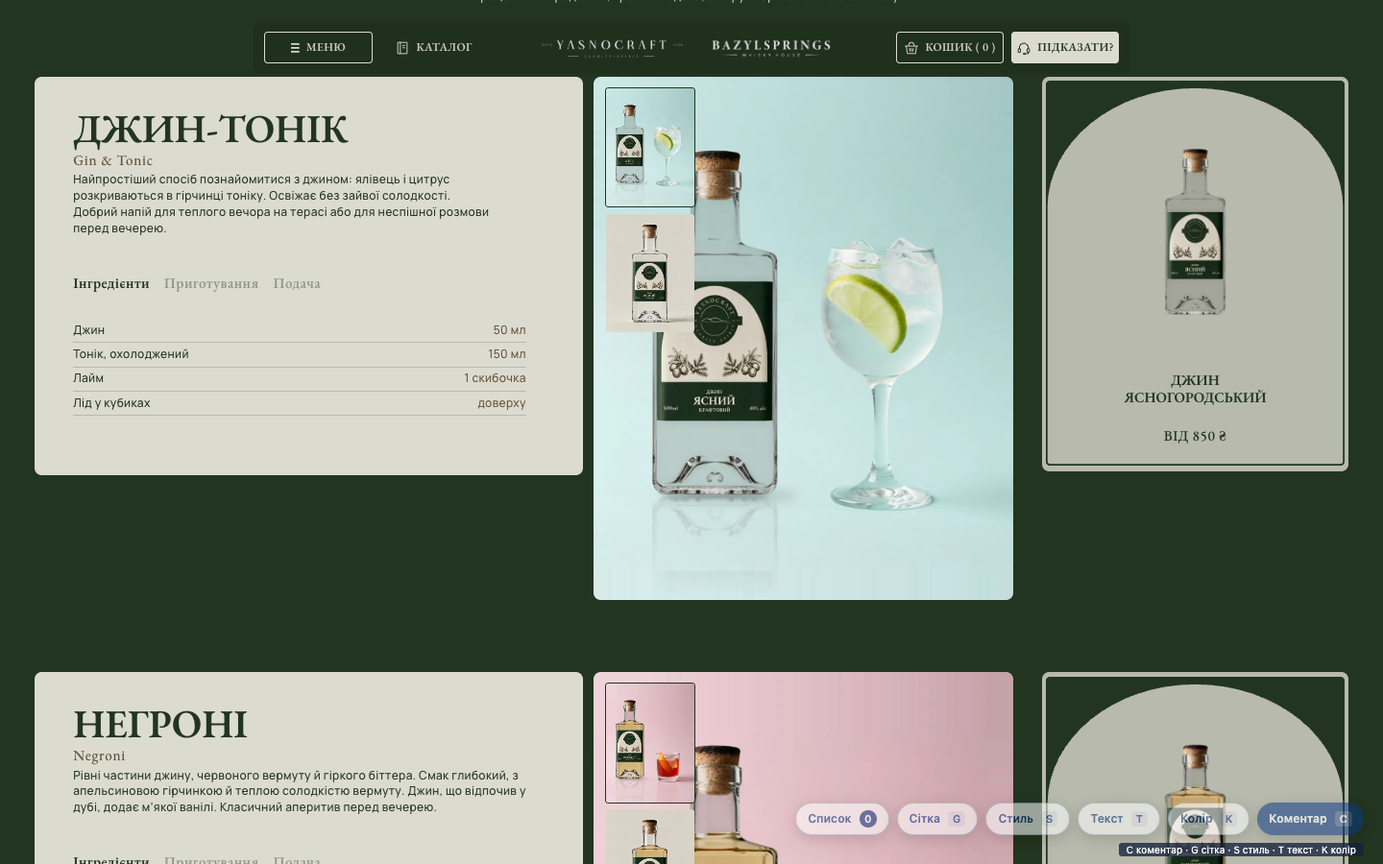
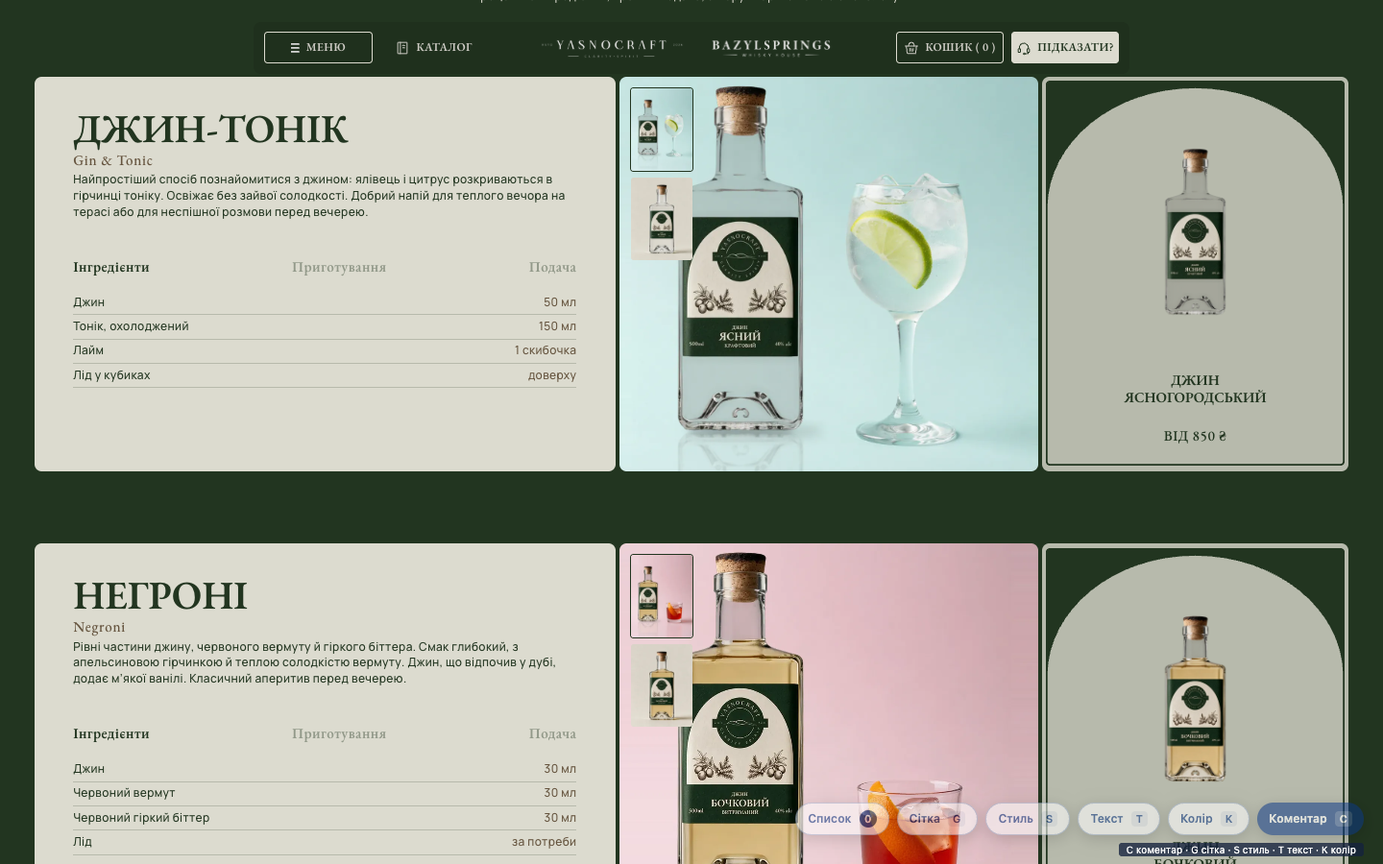
Коктейлі: рівні проміжки 5u між панеллю, слайдером і карткою (c121e3bf, 149b8d33); однакові відступи вкладок (0bea51f5); менші мініатюри (ccbb0483); слайдер на висоті картки (e9d6192c); таби на всю ширину (580810af)

diff --git a/design-system.html b/design-system.html
@@ -1124,7 +1124,7 @@
     <section class="ds-section" id="cocktails">
       <h2 class="t-h2 ds-section__title">Коктейлі</h2>
       <p class="ds-note t-body">Сторінка cocktails.html: вступ (h1 «Коктейлі» і рядок, 6 середніх колонок сітки, по центру екрана) і довгий список однакових блоків <code>components/cocktail</code>. Блоки будуються на етапі збірки циклом <code>&lt;!--@each cocktails components/cocktail--&gt;</code> (vite.config.js) з ОДНОГО файлу даних <code>src/data/cocktails.js</code> (підготовка — <code>src/data/cocktails-view.js</code>); новий коктейль = новий об'єкт у масиві, без змін розмітки й CSS (README, «Як додати коктейль»). Стилі — <code>src/styles/cocktails.css</code>, <code>components/lightbox.css</code>; логіка — <code>src/js/cocktails.js</code>, <code>tabs.js</code>, <code>lightbox.js</code>, <code>photo-stage.js</code>; токени — блок «Коктейлі» в кінці tokens.css.</p>
-      <p class="ds-note t-body"><strong>Сітка блоку:</strong> на зеленому тлі сторінки блок = 12 колонок сітки каталогу (<code>--size-cocktails-w</code> 1825u, зазор 40u; <code>--grid-cocktail-block</code>): фото-галерея — колонки 1–4 (<code>--col-cocktail-media</code>), світла ПАНЕЛЬ лише під текстовою частиною — колонки 5–9 (<code>--col-cocktail-body</code>; існуюча <code>.contacts-panel</code>: beige, рамка кольору панелі, <code>--radius-panel</code>, поле <code>--space-contacts-pad</code> з рамкою 55u), картка каталогу — колонки 10–12 (<code>--col-cocktail-item</code>: 3 колонки + 2 зазори = 426.25u = ширина картки). Рішення за коментарем замовника 3a227bc8 («лише текстову частину робити за заливкою фону»); попередній варіант — весь блок на одній панелі — у git, коміт 40d8ee3, скріни обох варіантів — <code>reports/cocktail-panel-variants/</code>. Видимий проміжок між фото, панеллю й карткою — <code>--space-cocktail-panel-gap</code> (= <code>--space-15</code>; коментарі e4f93328, 149b8d33 «гап менше»): панель виходить у зазор сітки з кожного боку на <code>--space-cocktail-panel-bleed</code> (= 40u − 15u = 25u), а padding збільшено на той самий виліт — текст лишається на колонках 5–9. Проміжки заголовок → англ. назва → опис однакові: <code>--space-cocktail-head-gap</code> (= <code>--space-5</code>; коментарі ee619752, c555575c «гап = 4,5» — одиниці не вказано, взято найближчий крок шкали). Галерея й картка стоять прямо на зеленому: арка й кільце фокуса картки — як у каталозі (перевизначень немає, computed-diff з <code>catalog.html</code> 0). Панель, фото й блок — однакової висоти; висота всіх блоків списку однакова (найвищий: <code>.cocktails__list</code> з <code>grid-auto-rows: 1fr</code>), мінімум — картка каталогу <code>--size-cocktail-h</code> 547.67u; картка має фіксовану висоту й притиснута до верху. Інгредієнти й подача — одна верстка: назва ліворуч, значення за правим краєм у 2 частках з 5 ширини тіла (<code>--span-cocktail-specs-value</code>), hairline під кожним рядком (коментар b1859f76). Текст у панелі — <code>--color-green</code>; єдиний акцент — <code>--color-cocktail-accent</code> (= <code>--color-barrels-amber</code>, золото 40% + brown: 5.0:1 на beige; чисте золото на beige — 1.6:1). Межі даних у <code>cocktails-view.js</code>: опис ≤320 знаків, 1–7 інгредієнтів, 1–6 кроків, 1–3 фото — інакше помилка збірки. Між вступом і блоками та між блоками — лише відступ <code>--space-cocktail-block-gap</code> (100u), без ліній. Верх ЧОРНИЛА капітелі заголовка = внутрішній верх панелі (верх панелі + рамка + поле 55u; оптична поправка <code>--shift-cocktail-title-cap-top</code> = −(round(down, пів-інтерліньяж) + ascent − cap-height), ascent/descent округлені до цілих px, пів-інтерліньяж — вниз, як у Chrome); <code>node tools/qa/cocktail-ink.mjs</code> (DPR 4, за чорнилом першої літери): ≤1 px для всіх 15 блоків на 1200/1440/1728/1920 в обох режимах смуги. Таби одразу під описом (50u); панелі табів в одній комірці — висота = найвища панель. Вступ — 6 середніх колонок, по центру. Тло — суцільний <code>--color-green</code>, без ромбів; нових декоративних елементів немає.</p>
+      <p class="ds-note t-body"><strong>Сітка блоку:</strong> на зеленому тлі сторінки блок = три плашки зліва направо (<code>--grid-cocktail-block</code>): світла ПАНЕЛЬ лише під текстовою частиною (існуюча <code>.contacts-panel</code>: beige, рамка кольору панелі, <code>--radius-panel</code>, поле <code>--space-contacts-pad</code> з рамкою 55u; забирає весь вільний простір = колонки 1–5 сітки каталогу + 70u), СЛАЙДЕР-галерея по центру (ширина 4 колонок сітки <code>--size-cocktail-photo-w</code> 581.67u, висота = картка каталогу <code>--size-cocktail-h</code> 547.67u: кадр <code>object-fit: cover</code> по центру, у повноекранному перегляді — повне фото; коментар e9d6192c) і картка каталогу праворуч (426.25u = 3 колонки). Проміжок між трьома плашками ОДНАКОВИЙ — <code>--space-cocktail-plate-gap</code> = <code>--space-5</code> (коментар c121e3bf: «4,5» = 4.5px у вікні 1728, де 5u = 4.5px; 3.13/3.75/4.5/5 px на 1200/1440/1728/1920); через це внутрішні краї панелі й слайдера поза колонками (виняток D12 у allow.json; лівий край панелі й правий край картки — на сітці). Рішення за коментарем замовника 3a227bc8 («лише текстову частину робити за заливкою фону»); попередній варіант — весь блок на одній панелі — у git, коміт 40d8ee3, скріни обох варіантів — <code>reports/cocktail-panel-variants/</code>. Мініатюри слайдера на коктейлях = 70% мініатюр товару (<code>--scale-cocktail-thumb</code>, пропорція й відступ 15u від рамки фото без змін; сторінка товару не змінена, коментар ccbb0483). Внутрішні відступи вкладок однакові (коментар 0bea51f5): таби → перший рядок 20u, рядки «Інгредієнтів», «Подачі» й «Приготування» — один ритм (padding-block 5u + hairline під кожним), UA-поля списків скинуто; висота панелі стала між вкладками (найвища вкладка визначає висоту, нижче коротших — вільне місце). Проміжки заголовок → англ. назва → опис однакові: <code>--space-cocktail-head-gap</code> (= <code>--space-5</code>; коментарі ee619752, c555575c «гап = 4,5» — одиниці не вказано, взято найближчий крок шкали). Галерея й картка стоять прямо на зеленому: арка й кільце фокуса картки — як у каталозі (перевизначень немає, computed-diff з <code>catalog.html</code> 0). Панель, фото й блок — однакової висоти; висота всіх блоків списку однакова (найвищий: <code>.cocktails__list</code> з <code>grid-auto-rows: 1fr</code>), мінімум — картка каталогу <code>--size-cocktail-h</code> 547.67u; картка має фіксовану висоту й притиснута до верху. Інгредієнти й подача — одна верстка: назва ліворуч, значення за правим краєм у 2 частках з 5 ширини тіла (<code>--span-cocktail-specs-value</code>), hairline під кожним рядком (коментар b1859f76). Текст у панелі — <code>--color-green</code>; єдиний акцент — <code>--color-cocktail-accent</code> (= <code>--color-barrels-amber</code>, золото 40% + brown: 5.0:1 на beige; чисте золото на beige — 1.6:1). Межі даних у <code>cocktails-view.js</code>: опис ≤320 знаків, 1–7 інгредієнтів, 1–6 кроків, 1–3 фото — інакше помилка збірки. Між вступом і блоками та між блоками — лише відступ <code>--space-cocktail-block-gap</code> (100u), без ліній. Верх ЧОРНИЛА капітелі заголовка = внутрішній верх панелі (верх панелі + рамка + поле 55u; оптична поправка <code>--shift-cocktail-title-cap-top</code> = −(round(down, пів-інтерліньяж) + ascent − cap-height), ascent/descent округлені до цілих px, пів-інтерліньяж — вниз, як у Chrome); <code>node tools/qa/cocktail-ink.mjs</code> (DPR 4, за чорнилом першої літери): ≤1 px для всіх 15 блоків на 1200/1440/1728/1920 в обох режимах смуги. Таби одразу під описом (50u), розтягнуті на всю ширину панелі (<code>justify-content: space-between</code>, центр по вертикалі; коментар 580810af); панелі табів в одній комірці — висота = найвища панель. Вступ — 6 середніх колонок, по центру. Тло — суцільний <code>--color-green</code>, без ромбів; нових декоративних елементів немає.</p>
       <p class="ds-note t-body"><strong>Перевикористано:</strong> фото-сцена й мініатюри сторінки товару (<code>.product-stage</code>, <code>.product-thumbs</code>/<code>.product-thumb</code> — без змін розміру) і спільний cross-fade <code>photo-stage.js</code> (його ж тепер використовує product.js); вкладки = перемикач об'єму товару <code>.product-volume</code> (opacity 0.4 → 1, плашка на hover; вибрана — <code>aria-selected</code>); інгредієнти й подача — <code>.product-specs</code> з розділювачем рядків акордеона товару (нижня hairline кожного рядка, <code>--accent-line</code> = <code>--color-cocktail-line</code>: колір тексту 20%, як <code>--color-line-soft</code>; коментар b60b8cab); праворуч — ДОСЛІВНО картка каталогу на зеленому тлі (partial <code>product-card</code>, <code>product-card--catalog</code>, ті самі дані й стани, арка й кільце без перевизначень; клік — на товар; computed-diff з каталогом 0). Нове (аналога не було, на погодженні у формі): розкладка табів <code>.tabs</code> і повноекранний перегляд <code>&lt;dialog class="lightbox"&gt;</code> (стрілки <code>.arrow-btn</code> слайдера, «закрити» — <code>btn--beige</code>).</p>
       <p class="ds-note t-body"><strong>Доступність:</strong> один h1; h2 — назва коктейлю, h3 — назва товару в картці. Таби — WAI-ARIA tablist (←/→ по колу, Home/End, roving tabindex, Tab — у панель; id унікальні з префіксом slug); без JS видно всі панелі. Галерея: мініатюри — кнопки з <code>aria-pressed</code> і підписом «Фото N з M: …», клік по фото — <code>dialog.showModal()</code> (фокус на «закрити», ←/→ гортання, Esc закриває, фокус повертається на фото, скрол сторінки заблоковано без зсуву). reduced-motion — фото змінюються миттєво, без появи діалогу. <code>?slots=on</code> — обведення місць під фото/тексти замовника і перелік (як на бочках).</p>
       <p class="demo-label t-kicker">Блок коктейлю (статичне демо в реальній ширині 1825u, як на cocktails.html; інтерактив — на сторінці)</p>

diff --git a/src/styles/cocktails.css b/src/styles/cocktails.css
@@ -15,24 +15,25 @@
 .cocktails__lead { text-wrap: balance; }
 .cocktails__list { display: grid; row-gap: var(--space-cocktail-block-gap); margin-top: var(--space-cocktail-block-gap); }
 
-/* блок коктейлю на зеленому тлі сторінки (коментар замовника 3a227bc8: світла заливка лише під ТЕКСТОВОЮ частиною). Сітка = 12 колонок каталогу, порядок зліва направо (коментар bb972de6):
-   ТЕКСТ (кол. 1–5) — ІСНУЮЧА панель DS .contacts-panel (beige, рамка кольору панелі, --radius-panel, поле --space-contacts-pad; computed-вигляд = панель контактів): заголовок, опис, таби, списки;
-   СЛАЙДЕР-галерея (кол. 6–9) і картка каталогу (кол. 10–12) стоять прямо на зеленому. Усі три притиснуті до верху й НЕ розтягуються (align-items: start; коментар 897ea0d1): панель — за вмістом
-   (висота табів = найвища панель коктейлю), фото — 4:5 від ширини колонок, картка — своєї висоти; висота ряду = найвищий із трьох. Порядок у DOM = порядок Tab: текст → слайдер → картка.
+/* блок коктейлю на зеленому тлі сторінки (коментар замовника 3a227bc8: світла заливка лише під ТЕКСТОВОЮ частиною), порядок зліва направо (bb972de6): ТЕКСТ — ІСНУЮЧА панель DS .contacts-panel
+   (beige, рамка кольору панелі, --radius-panel, поле --space-contacts-pad), СЛАЙДЕР-галерея (ширина 4 колонок сітки каталогу, висота = картка каталогу, кадр cover по центру; e9d6192c) і картка каталогу (426.25u) стоять прямо на зеленому.
+   Між трьома плашками ОДНАКОВИЙ проміжок --space-cocktail-plate-gap = 5u (c121e3bf, «4,5» = 4.5px у вікні 1728); панель забирає весь простір, що лишився (колонки 1–5 + 70u).
+   Усі три притиснуті до верху й не розтягуються (897ea0d1): панель — за вмістом (висота табів = найвища панель), слайдер і картка — на одній висоті (--size-cocktail-h); ряд = найвищий із трьох (довша панель з даних збільшує ряд). Порядок у DOM = порядок Tab.
    Попередній варіант (весь блок на одній панелі) — коміт 40d8ee3. */
-.cocktail { display: grid; grid-template-columns: var(--grid-cocktail-block); column-gap: var(--space-cocktail-col-gap); row-gap: 0; align-items: start; }
-.cocktail__media { --accent: var(--color-cocktail-text); position: relative; grid-column: var(--col-cocktail-media); aspect-ratio: var(--ratio-cocktail-photo); } /* --accent — рамка вибраної мініатюри (.product-thumb[aria-pressed], як на товарі); лише в галереї, щоб картка каталогу не успадковувала */
+.cocktail { display: grid; grid-template-columns: var(--grid-cocktail-block); column-gap: var(--space-cocktail-plate-gap); row-gap: 0; align-items: start; }
+.cocktail__media { --accent: var(--color-cocktail-text); position: relative; height: var(--size-cocktail-h); } /* --accent — рамка вибраної мініатюри (.product-thumb[aria-pressed], як на товарі); лише в галереї, щоб картка каталогу не успадковувала */
+.cocktail__thumbs .product-thumb { width: calc(var(--size-product-thumb-w) * var(--scale-cocktail-thumb)); height: calc(var(--size-product-thumb-h) * var(--scale-cocktail-thumb)); } /* менші мініатюри лише на коктейлях (параметр .product-thumbs; сторінка товару без змін) */
 .cocktail__zoom { position: absolute; inset: 0; border-radius: var(--radius-product-frame); cursor: zoom-in; }
-/* панель: висота за вмістом (скинуто мін. висоту .contacts-panel), проміжок flex-колонки скинуто. Правий край виходить у зазор до слайдера на --space-cocktail-panel-bleed (видимий проміжок = --space-cocktail-panel-gap; e4f93328), текст лишається на колонках (padding компенсує виліт); лівий край — на сітці */
-.cocktail__body { grid-column: var(--col-cocktail-body); min-height: 0; gap: 0; min-width: 0; margin-right: calc(-1 * var(--space-cocktail-panel-bleed)); padding-right: calc(var(--space-contacts-pad) + var(--space-cocktail-panel-bleed)); }
+/* панель: висота за вмістом (скинуто мін. висоту .contacts-panel), проміжок flex-колонки скинуто; ширина = весь простір, що лишився від слайдера й картки (--grid-cocktail-block), текст — з лівого краю панелі */
+.cocktail__body { min-height: 0; gap: 0; min-width: 0; }
 .cocktail__title { margin-top: var(--shift-cocktail-title-cap-top); text-wrap: balance; } /* оптика: верх чорнила капітелі = внутрішній верх панелі (як --shift-barrels-cap-top) */
 .cocktail__tabs { margin-top: var(--space-50); } /* таби одразу під описом — щільно */
 .cocktail__original { margin-top: var(--space-cocktail-head-gap); color: var(--color-cocktail-accent); }
 .cocktail__desc { margin-top: var(--space-cocktail-head-gap); text-wrap: pretty; } /* на всю ширину тіла (5 колонок) */
-.cocktail__item { grid-column: var(--col-cocktail-item); display: grid; align-content: start; min-width: 0; } /* картка каталогу ДОСЛІВНО (ширина 426.25u = 3 колонки, висота — її токен); арка й кільце фокуса — як у каталозі (на зеленому тлі), перевизначень немає */
+.cocktail__item { display: grid; align-content: start; min-width: 0; } /* картка каталогу ДОСЛІВНО (ширина 426.25u = 3 колонки, висота — її токен); арка й кільце фокуса — як у каталозі (на зеленому тлі), перевизначень немає */
 
 /* таби (компонент .tabs: розмітка WAI-ARIA, логіка src/js/tabs.js); вигляд вкладки = перемикач об'єму товару (.product-volume) */
-.tabs__list { display: flex; gap: var(--space-product-volumes-gap); } /* як ряд об'ємів на товарі (той самий зазор, без лінії) */
+.tabs__list { display: flex; justify-content: space-between; align-items: center; } /* таби на всю ширину панелі: перший — лівий край поля, останній — правий, проміжки рівні (коментар 580810af); вигляд вкладки як перемикач об'єму товару */
 .tabs__panels { display: grid; padding-top: var(--space-20); }
 /* панелі в одній комірці: висота = найвища панель цього коктейлю, перемикання не змінює висоту; неактивні приховані й від допоміжних технологій. Без JS видно всі панелі одна під одною */
 .js .tabs__panel { grid-area: 1 / 1; }
@@ -41,10 +42,10 @@
 /* «Інгредієнти» і «Подача» — ОДНА верстка (коментар замовника b1859f76): назва ліворуч, значення за правим краєм у 2 частках з 5 ширини тіла, під кожним рядком hairline-розділювач
    (той самий, що в рядках акордеона товару, колір --accent-line; коментар b60b8cab), однаковий крок рядка; довге значення переноситься в межах своєї колонки,
    висота панелей не змінюється (вони в одній комірці). Колонки без зазору: проміжок між ними — padding-left у dd (всередині комірки), тож лінія суцільна */
-.cocktail__specs { --accent-line: var(--color-cocktail-line); column-gap: 0; row-gap: 0; grid-template-columns: minmax(0, 1fr) calc(100% * var(--span-cocktail-specs-value) / var(--span-cocktail-body)); }
+.cocktail__specs { margin: 0; --accent-line: var(--color-cocktail-line); column-gap: 0; row-gap: 0; grid-template-columns: minmax(0, 1fr) calc(100% * var(--span-cocktail-specs-value) / var(--span-cocktail-body)); }
 .cocktail__specs > :is(dt, dd) { padding-block: var(--space-5); border-bottom: var(--border-hairline) solid var(--accent-line); }
 .cocktail__specs > dd { padding-left: var(--space-cocktail-col-gap); color: var(--color-cocktail-accent); text-align: right; }
 .cocktail__specs > dt { font-weight: inherit; }
-.cocktail__steps { display: grid; row-gap: var(--space-10); }
-.cocktail__step { display: grid; grid-template-columns: max-content minmax(0, 1fr); column-gap: var(--space-20); align-items: baseline; }
+.cocktail__steps { display: grid; row-gap: 0; margin: 0; padding: 0; list-style: none; } /* ритм рядків = «Інгредієнти»/«Подача»: padding-block --space-5 + hairline під кожним рядком (коментар 0bea51f5) */
+.cocktail__step { padding-block: var(--space-5); border-bottom: var(--border-hairline) solid var(--color-cocktail-line); display: grid; grid-template-columns: max-content minmax(0, 1fr); column-gap: var(--space-20); align-items: baseline; }
 .cocktail__step-n { color: var(--color-cocktail-accent); }

diff --git a/src/styles/tokens.css b/src/styles/tokens.css
@@ -1026,17 +1026,16 @@
 }
 
 /* ---------- Коктейлі (cocktails.html, partials/components/cocktail.html, lightbox.html) ----------
-   Лише похідні від наявних токенів. Блок на зеленому тлі сторінки: 12 колонок сітки каталогу (1825u, зазор 40u): світла панель DS (.contacts-panel, beige) лише під текстовою
-   частиною — 5 (ліворуч), слайдер-галерея 4 (по центру), картка каталогу — 3 колонки (426.25u = її ширина; арка картки задана в u). Висота панелі = висота блоку = висота фото = висота картки. */
+   Лише похідні від наявних токенів. Блок на зеленому тлі сторінки (ширина 1825u = сітка каталогу): три плашки з однаковим проміжком 5u — світла панель DS (.contacts-panel, beige) лише під текстом
+   (весь вільний простір), слайдер-галерея (4 колонки сітки, висота = картка), картка каталогу 426.25u (арка картки задана в u). Висота панелі за вмістом; висота ряду = найвищий із трьох. */
 :root {
   --size-cocktails-w: var(--size-catalog-grid-w);               /* 1825u: ширина сторінки = сітка каталогу */
   --count-cocktail-cols: 12;                                    /* колонки сітки сторінки (вступ) */
   --space-cocktail-col-gap: var(--space-catalog-grid-gap);      /* 40u: зазор доріжок усередині панелі = зазор сітки каталогу */
-  --grid-cocktail-block: repeat(var(--count-cocktail-cols), minmax(0, 1fr)); /* ті самі 12 колонок сітки: 3 колонки + 2 зазори по 40u = 426.25u = ширина картки каталогу */
-  --col-cocktail-body: 1 / span 5;                               /* ПАНЕЛЬ з текстом (заголовок, опис, таби, списки) — колонки 1–5, ліворуч */
-  --col-cocktail-media: 6 / span 4;                              /* слайдер-галерея — колонки 6–9, по центру (на зеленому тлі, без панелі) */
-  --ratio-cocktail-photo: 4 / 5;                                 /* пропорція фото-фрейму (кадри 4:5) */
-  --col-cocktail-item: 10 / span 3;                              /* картка каталогу — колонки 10–12 (на зеленому тлі, без панелі) */
+  --space-cocktail-plate-gap: var(--space-5);                    /* ОДНАКОВИЙ проміжок між трьома плашками: текстова панель | слайдер | картка (коментар c121e3bf «4,5» = 4.5px на вікні 1728 = 5u) */
+  --size-cocktail-photo-w: calc((var(--size-cocktails-w) - (var(--count-cocktail-cols) - 1) * var(--space-cocktail-col-gap)) / var(--count-cocktail-cols) * 4 + 3 * var(--space-cocktail-col-gap)); /* слайдер зберігає ширину 4 колонок сітки каталогу (581.67u) */
+  --grid-cocktail-block: minmax(0, 1fr) var(--size-cocktail-photo-w) var(--size-card-cat2-w); /* панель тексту забирає ВЕСЬ вільний простір (колонки 1–5 + розширення), слайдер 4 колонки, картка каталогу 426.25u; зазор між ними --space-cocktail-plate-gap */
+  --scale-cocktail-thumb: 0.7;                                   /* мініатюри слайдера коктейлів = 70% мініатюр товару (коментар ccbb0483), пропорція та відступ від рамки (15u) без змін */
   --span-cocktail-body: 5;                                      /* частки тіла (знаменник): списки «Інгредієнти»/«Подача» */
   --span-cocktail-specs-value: 2;                               /* значення (кількість; келих, прикраса) — 2 частки з 5 праворуч, назва — 3 */
   /* МІНІМАЛЬНА висота вмісту блоку = висота картки каталогу 547.67u (картка вставлена як є); у фото-фрейм цієї висоти вміщується колонка з 3 мініатюр товару: 3×167 + 2×7 + 2×15 = 545u */
@@ -1050,8 +1049,6 @@
      Chrome округлює ascent і descent до цілих px (round) а пів-інтерліньяж — ВНИЗ до цілого (round(down)): це видно в Range.getClientRects() першої літери (top = −floor(пів-інтерліньяжу), висота = ascent + descent);
      тому поправка рахується за тими ж правилами на кожній ширині, а не підібраним числом в em (раніше пів-інтерліньяж не округлявся → відхилення до 1.3px на 1200 і 1920) */
   --shift-cocktail-title-cap-top: calc(-1 * (round(down, (var(--type-hero-lh) * 1em - round(var(--font-ascent-serif) * 1em, 1px) - round(var(--font-descent-serif) * 1em, 1px)) / 2, 1px) + round(var(--font-ascent-serif) * 1em, 1px) - var(--font-cap-height-serif-ink) * 1em));
-  --space-cocktail-panel-gap: var(--space-15);                  /* ВИДИМИЙ проміжок між панеллю тексту й фото/карткою (коментарі e4f93328, 149b8d33: «гап менше»); раніше = зазор сітки 40u */
-  --space-cocktail-panel-bleed: calc(var(--space-cocktail-col-gap) - var(--space-cocktail-panel-gap)); /* виліт панелі в зазор сітки з кожного боку (25u); текст усередині лишається на колонках: padding збільшено на той самий виліт */
   --space-cocktail-head-gap: var(--space-5);                    /* проміжки заголовок → англ. назва → опис однакові (коментарі ee619752, c555575c: «гап = 4,5» — одиниці не вказано, найближчий крок шкали 5u; питання в формі) */
   --space-cocktail-block-gap: var(--space-100);                 /* відступ вступ → блок і між блоками (лише простір, без ліній) */
   --space-cocktails-top: var(--space-catalog-title-top2);       /* 83u: від зони header до заголовка (як каталог) */
